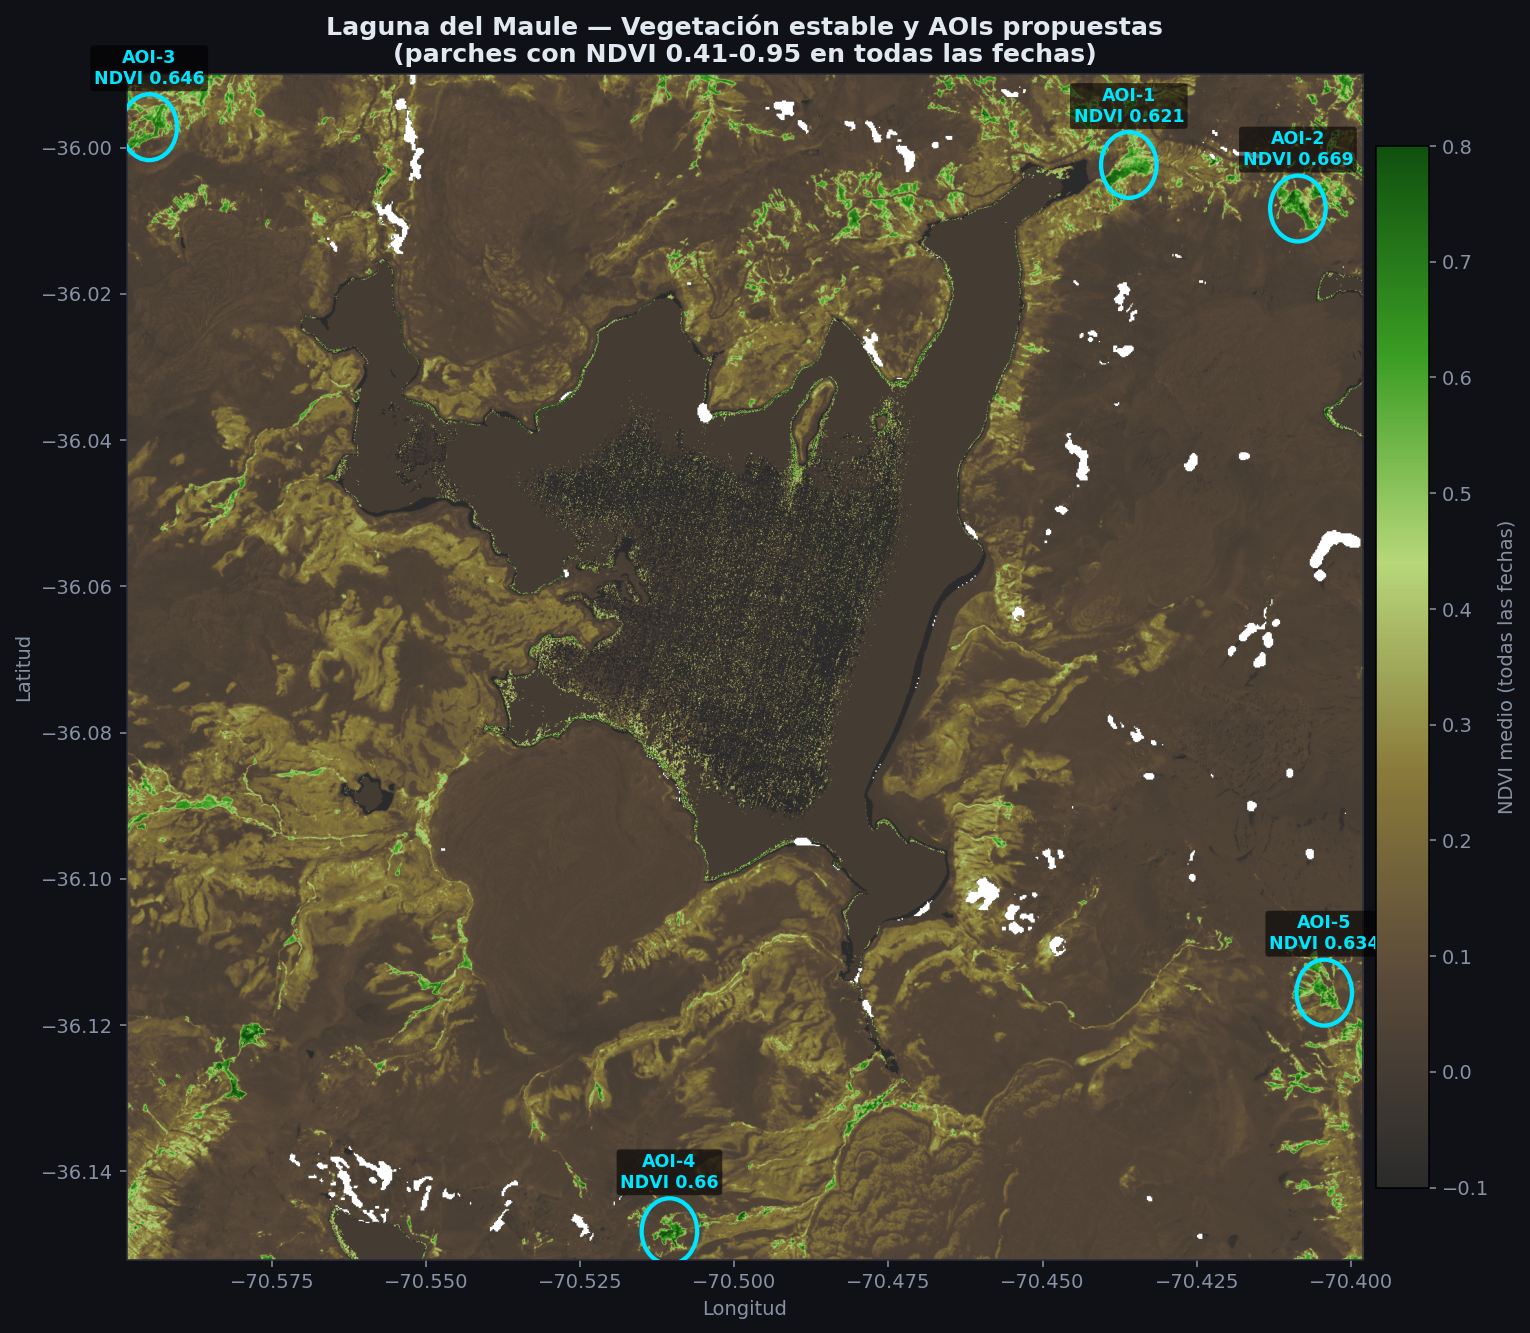
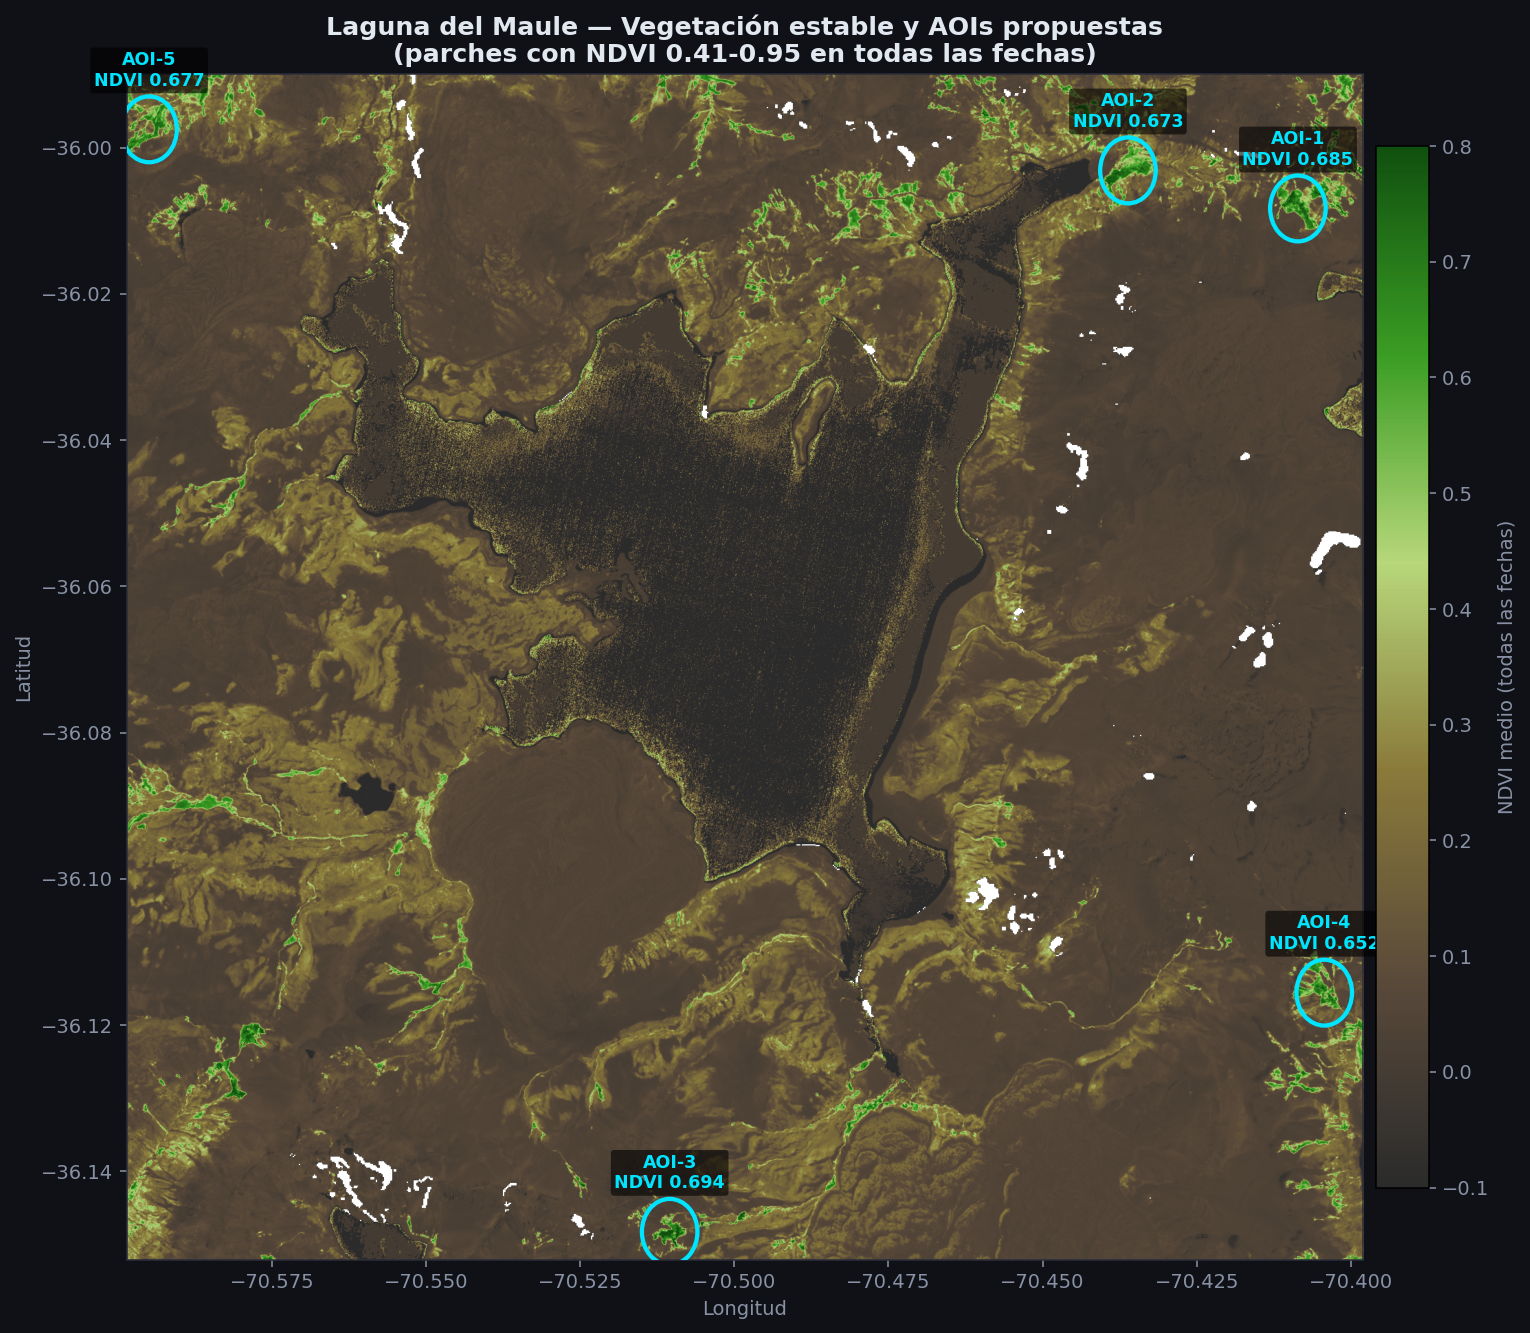
Record field decision: CO2 concentrates in quebradas -> riparian AOIs next session
Nicolas confirmed (field knowledge) that CO2 emissions concentrate in the quebradas.
Next-session action: build narrow AOIs over riparian vegetation along the degassing
quebradas (matches Guinn 2024's 30m-of-structure finding), instead of edge patches or
large circles over barren caldera. Documented as the priority task in GAPS.md.

diff --git a/docs/bibliografia/GAPS.md b/docs/bibliografia/GAPS.md
@@ -25,6 +25,14 @@
     parches de borde como control y aceptar que LdM no es ideal para señal vegetal directa.
     Candidatas en `datos/Laguna_del_Maule/aoi_candidatas.json` + mapa
     `docs/maps/Laguna_del_Maule_aoi_candidatas.png`.
+  - **✅ DECISIÓN DE CAMPO (Nicolás, 2026-06-07): las emisiones de CO2 se concentran en las
+    QUEBRADAS.** ⇒ Próxima sesión: crear AOIs sobre la **vegetación riparia de las quebradas**
+    (no parches de borde). Coincide con Guinn 2024 (gas en 30 m de la estructura). TAREA:
+    (1) identificar las quebradas con desgasificación conocida (coords de Nicolás o trazas de
+    drenaje del DEM); (2) definir AOIs lineales/estrechas siguiendo la quebrada, no círculos
+    grandes; (3) extraer la vegetación riparia (hilos verdes NDVI≥0.4 visibles en el mapa
+    `_aoi_candidatas.png` a lo largo de los drenajes); (4) re-correr change_detector sobre
+    esas AOIs. El detector ya filtra NDVI<0.4 y reporta pct_coincide_esperado para señal localizada.
 
 - **✅ RESUELTO (conflicto greening/browning):** tras fichar PD-003/PD-006/PD-011, el efecto del
   CO2 resultó **NO monotónico — depende del flujo**: bajo/moderado → GREENING (fertilización,
